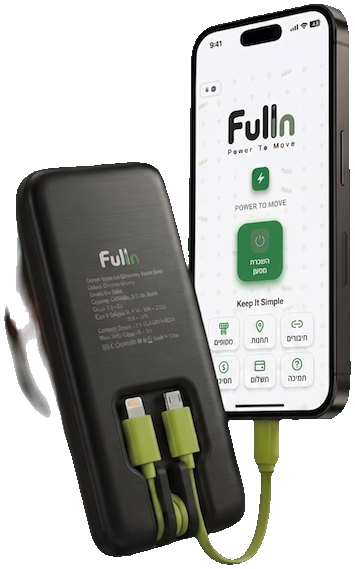
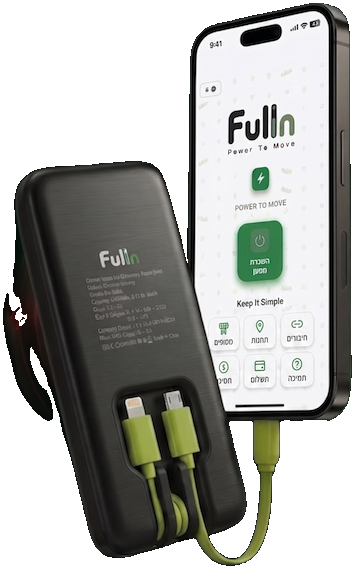
fix: cleaner hero bg removal, smaller image, comprehensive mobile rules
1. Hero image bg cleanup (2nd pass)
   Previous rembg output still had a visible dark rim at the edges
   of the product on both the dark hero gradient and on white. Re-ran
   rembg with alpha_matting=True (foreground_threshold=270, background_
   threshold=20, erode_size=10) then hard-thresholded the resulting
   alpha (>=100 → 255, else 0) to kill the soft contaminated halo
   entirely. Cropped to content with 3 px padding.
   Verified by compositing on both dark green and white previews —
   no visible rim in either case.
   CSS box shrunk (width 40% → 32%, height 96% → 82%) per feedback
   that the image felt too big.

2. Comprehensive mobile responsiveness (≤991px and ≤767px)
   The stock Webflow layout is desktop-first with many fixed-pixel
   widths. Opening the site on a phone showed horizontal scroll,
   overflowing text, and broken section layouts. Added a 200+ line
   block at the end of rtl-overrides.css:

   ≤991px (tablet + phone):
   - body overflow-x: hidden to kill rogue horizontal scroll
   - Containers use 100% width + 20 px inline padding
   - Hero: text 100% width, H1 → 44 px
   - Section-2 .second-section: stack vertically, image full-width,
     font-size-48 → 32 px
   - Section-3 quick-stack-2: column-reverse so product image ends
     up ABOVE the step list (reads top-to-bottom), images max 420 px
   - Section-4 div-block-8: stack text + screenshots, screenshots in
     a 2-column wrap row so they don't exceed viewport width
[…]

diff --git a/css/rtl-overrides.css b/css/rtl-overrides.css
@@ -53,10 +53,10 @@ html[lang="he-il"] #home {
 html[lang="he-il"] #home::before {
   content: "";
   position: absolute;
-  left: 10%;
+  left: 11%;
   top: 50%;
-  width: 40%;
-  height: 96%;
+  width: 32%;
+  height: 82%;
   transform: translateY(-50%);
   background-image: url("../images/fullin-hero-composite.png");
   background-repeat: no-repeat;
@@ -963,5 +963,270 @@ html[lang="he-il"] .div-block-20.main .div-block-39 {
   }
   html[lang="he-il"] .nav-button-wrapper {
     margin-right: 0;
+  }
+}
+
+/* ======================================================================
+   COMPREHENSIVE MOBILE OVERRIDES — phones (≤767px) & tablets (≤991px)
+   The stock Webflow layout was built desktop-first and uses fixed-pixel
+   widths in a bunch of places (navbar, hero text, section cards) that
+   overflow small viewports. Rules below normalise the whole page so
+   everything fits within the viewport, nothing scrolls horizontally,
+   and Hebrew copy stays readable at phone widths.
+   ====================================================================== */
+
+/* Kill any accidental horizontal scroll */
+html[lang="he-il"] body {
+  overflow-x: hidden;
+}
+
+@media (max-width: 991px) {
+  /* Generic: everything stacks vertically, no side margins sticking out */
+  html[lang="he-il"] .main-container,
+  html[lang="he-il"] .w-container {
+    max-width: 100%;
+    padding-left: 20px;
+    padding-right: 20px;
+    box-sizing: border-box;
+  }
+
+  /* ---- Navbar ---- */
+  html[lang="he-il"] .navbar-wrapper {
+    padding: 12px 16px;
+  }
+  html[lang="he-il"] .navbar-brand img {
+    max-height: 40px;
+    width: auto;
+  }
+
+  /* ---- Hero ---- */
+  html[lang="he-il"] #home {
+    padding-top: 140px;
+    padding-bottom: 60px;
+    min-height: auto;
+  }
+  html[lang="he-il"] .hero-div {
+    width: 100%;
+    text-align: right;
+    padding: 0;
+  }
+  html[lang="he-il"] .main-heading {
+    font-size: 44px;
+    line-height: 1.1;
+  }
+  html[lang="he-il"] .div-block-34 .font-16 {
+    font-size: 15px;
+    line-height: 1.55;
+  }
+
+  /* ---- Section-2 "סוללה ריקה" ---- */
+  html[lang="he-il"] .second-section,
+  html[lang="he-il"] .w-layout-layout.second-section {
+    display: flex !important;
+    flex-direction: column !important;
+    gap: 24px;
+  }
+  html[lang="he-il"] .cell-3 {
+    width: 100% !important;
+    align-items: flex-start !important;
+    text-align: right;
+  }
+  html[lang="he-il"] .div-block-3 {
+    max-width: 100%;
+  }
+  html[lang="he-il"] .div-block-3 .font-size-48,
+  html[lang="he-il"] .font-size-48 {
+    font-size: 32px !important;
+    line-height: 1.2;
+  }
+  html[lang="he-il"] .cell .image-3,
+  html[lang="he-il"] .cell img {
+    width: 100%;
+    max-width: 100%;
+    height: auto;
+  }
+
+  /* ---- Section-3 "איך זה עובד" ---- */
+  html[lang="he-il"] .quick-stack-2 {
+    display: flex !important;
+    flex-direction: column-reverse !important;
+    gap: 30px;
+  }
+  html[lang="he-il"] .cell-2,
+  html[lang="he-il"] .cell-2 img {
+    width: 100% !important;
+    max-width: 100%;
+    height: auto;
+    justify-content: center !important;
+  }
+  html[lang="he-il"] .cell-2 img {
+    max-height: 420px;
+    object-fit: contain;
+    margin: 0 auto;
+  }
+  html[lang="he-il"] .div-block-42 {
+    display: flex;
+    flex-direction: column;
+    gap: 18px;
+  }
+  html[lang="he-il"] ._3-coulms {
+    width: 100%;
+  }
+
+  /* ---- Section-4 "טעינה מיידית" / "על האפליקציה" ---- */
+  html[lang="he-il"] .div-block-8 {
+    flex-direction: column !important;
+    flex-wrap: wrap !important;
+    gap: 30px !important;
+    align-items: stretch;
+  }
+  html[lang="he-il"] .div-block-36 {
+    max-width: 100% !important;
+    order: -1 !important;
+    width: 100%;
+  }
+  html[lang="he-il"] .div-block-10 {
+    order: 1 !important;
+    width: 100%;
+    display: flex;
+    flex-flow: row wrap;
+    justify-content: center;
+    gap: 10px;
+  }
+  html[lang="he-il"] .div-block-10 img,
+  html[lang="he-il"] .image-5 {
+    flex: 0 1 calc(50% - 10px);
+    max-width: calc(50% - 10px);
+    height: auto;
+    width: auto;
+  }
+
+  /* ---- Section-10 "הרשת גדלה ברחבי ישראל" ---- */
+  html[lang="he-il"] .section-10 {
+    min-height: auto;
+    padding: 60px 0;
+  }
+  html[lang="he-il"] .section-10 .main-container {
+    display: block;
+  }
+  html[lang="he-il"] .div-block-37 {
+    width: 100%;
+    display: block;
+  }
+  html[lang="he-il"] .div-block-38 {
+    padding-right: 0;
+    padding-left: 0;
+    text-align: right !important;
+  }
+  /* Map video moves from absolute side to a static block below text */
+  html[lang="he-il"] .section-10 .background-video {
+    position: relative !important;
+    left: auto !important;
+    top: auto !important;
+    bottom: auto !important;
+    right: auto !important;
+    transform: none !important;
+    width: 100% !important;
+    max-width: 100% !important;
+    height: 260px !important;
+    margin: 30px auto 0 !important;
+  }
+
+  /* ---- Section-6 pricing: already responsive via existing rule ---- */
+  /* ---- Section-7 for business ---- */
+  html[lang="he-il"] .div-block-44 {
+    flex-flow: column !important;
+    align-items: center;
+    gap: 20px;
+  }
+  html[lang="he-il"] .div-block-45 {
+    width: 100%;
+    max-width: 320px;
+  }
+
+  /* ---- Section-8 FAQ ---- */
+  html[lang="he-il"] .div-block-24 {
+    flex-direction: column !important;
+    gap: 24px;
+  }
+  html[lang="he-il"] .div-block-25,
+  html[lang="he-il"] .div-block-26 {
+    flex: 0 0 100% !important;
+    width: 100% !important;
+    max-width: 100%;
+  }
+  html[lang="he-il"] .heading-6 {
+    font-size: 32px;
+  }
+
+  /* ---- Footer ---- */
+  html[lang="he-il"] .div-block-31 {
+    flex-flow: column !important;
+    gap: 24px;
+    text-align: right;
+  }
+  html[lang="he-il"] .div-block-29,
+  html[lang="he-il"] .div-block-32 {
+    width: 100%;
+  }
+
+  /* ---- Typography scale ---- */
+  html[lang="he-il"] .heading-4 {
+    font-size: 32px;
+    line-height: 1.2;
+  }
+}
+
+/* Phone-specific (≤767px) */
+@media (max-width: 767px) {
+  /* Hero heading slightly smaller on narrow phones */
+  html[lang="he-il"] .main-heading {
+    font-size: 36px;
+    line-height: 1.1;
+  }
+  html[lang="he-il"] .font-size-48 {
+    font-size: 28px !important;
+  }
+  html[lang="he-il"] .heading-4,
+  html[lang="he-il"] .heading-6 {
+    font-size: 28px;
+  }
+
+  /* Hero: hide the background product image on very narrow screens
+   * since it overflows and the page reads better as text-only */
+  html[lang="he-il"] #home::before {
+    display: none;
+  }
+
+  /* Reduce generic section padding so there's more content room */
+  html[lang="he-il"] section.section-2,
+  html[lang="he-il"] section.section-3,
+  html[lang="he-il"] section.section-4,
+  html[lang="he-il"] section.section-6,
+  html[lang="he-il"] section.section-7,
+  html[lang="he-il"] section.section-8 {
+    padding-top: 60px !important;
+    padding-bottom: 60px !important;
+  }
+
+  /* Buttons full-width where appropriate */
+  html[lang="he-il"] .secondry-button.w-button,
+  html[lang="he-il"] .button-primary.w-button {
+    width: 100%;
+    text-align: center;
+    box-sizing: border-box;
+    max-width: 320px;
+  }
+
+  /* App-store badges stack neatly */
+  html[lang="he-il"] .div-block-2 {
+    flex-flow: row wrap;
+    gap: 10px;
+    justify-content: flex-start;
+    margin: 16px 0;
+  }
+  html[lang="he-il"] .div-block-2 .app-store {
+    height: 46px;
+    width: auto;
   }
 }
